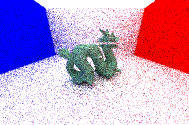
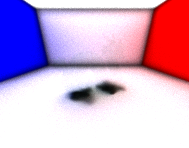
Mesh 형태도 일반 draw 시 알맞은 색상으로 그려지게 변경

diff --git a/BrokenCrystal/NewBrokenCrystal/Scene.cpp b/BrokenCrystal/NewBrokenCrystal/Scene.cpp
@@ -304,7 +304,7 @@ void Scene::DrawShape(Object* object)
 		case CONVEX_TRIANGLEMESH_SHAPE_PROXYTYPE:
 		{
 			const Mesh* mesh = static_cast<const Mesh*>(object);
-			DrawMesh(mesh->GetTriangles());
+			DrawMesh(mesh);
 			break;
 		}
 	}
@@ -400,10 +400,12 @@ void Scene::DrawTriangle(const btVector3 &p0, const btVector3 &p1, const btVecto
 	glEnd();
 }
 
-void Scene::DrawMesh(std::vector<Triangle*> triangles)
+void Scene::DrawMesh(const Mesh* mesh)
 {
+	std::vector<Triangle*> triangles = mesh->GetTriangles();
 	for (auto & triangle : triangles)
 	{
+		glColor3fv(triangle->GetColorAt());
 		DrawTriangle(triangle->pos[0], triangle->pos[1], triangle->pos[2]);
 	}
 }
@@ -420,7 +422,7 @@ void Scene::RenderPath(int samples)
 	for (int y = 0; y < height; y++)
 	{
 		unsigned short Xi[3] = { 0, 0, y*y*y };
-		fprintf(stderr, "\rRendering (%i samples): %.2f%% ", samples, (double)y / height * 100);
+		fprintf(stderr, "\rRendering (%i samples): %.2f%% | Estimated time : %0.4fs", samples, (double)y / height * 100, ((float) (clock.getTimeMilliseconds() - time) / 1000) * (height / (float)y)  );
 
 		for (int x = 0; x < width; x++)
 		{

diff --git a/BrokenCrystal/NewBrokenCrystal/Scene.h b/BrokenCrystal/NewBrokenCrystal/Scene.h
@@ -59,7 +59,7 @@ public:
 	void DrawBox(const btVector3& halfSize);
 	void DrawSphere(float radius);
 	void DrawTriangle(const btVector3 &p0, const btVector3 &p1, const btVector3 &p2);
-	void DrawMesh(std::vector<Triangle*> triangles);
+	void DrawMesh(const Mesh* mesh);
 
 	// path tracing
 	void RenderPath(int samples);
@@ -94,7 +94,7 @@ private:
 	Camera* camera;
 
 	// path tracing
-	int samples = 4;
+	int samples = 1000;
 	btVector3* pixelBuffer;
 
 };

diff --git a/BrokenCrystal/NewBrokenCrystal/Camera.cpp b/BrokenCrystal/NewBrokenCrystal/Camera.cpp
@@ -15,7 +15,6 @@ Camera::Camera() :
 
 }
 
-
 Camera::~Camera()
 {
 }
@@ -187,4 +186,9 @@ int Camera::GetWidht()
 int Camera::GetHeight()
 {
 	return height;
+}
+
+btVector3 Camera::GetPosition()
+{
+	return position;
 }

diff --git a/BrokenCrystal/NewBrokenCrystal/Triangle.h b/BrokenCrystal/NewBrokenCrystal/Triangle.h
@@ -19,7 +19,7 @@ public:
 
 	btVector3 GetMidPoint();
 	btVector3 GetBarycentric(btVector3 pos);
-	btVector3 GetColorAt(btVector3 pos);
+	btVector3 GetColorAt(btVector3 pos = btVector3(0,0,0));
 
 
 	btVector3 pos[3];

diff --git a/BrokenCrystal/NewBrokenCrystal/Camera.h b/BrokenCrystal/NewBrokenCrystal/Camera.h
@@ -22,6 +22,7 @@ public:
 	Ray GetRay(int x, int y, int sx, int sy, bool dof = false);
 	int GetWidht();
 	int GetHeight();
+	btVector3 GetPosition();
 
 private:
 	btVector3 position;
